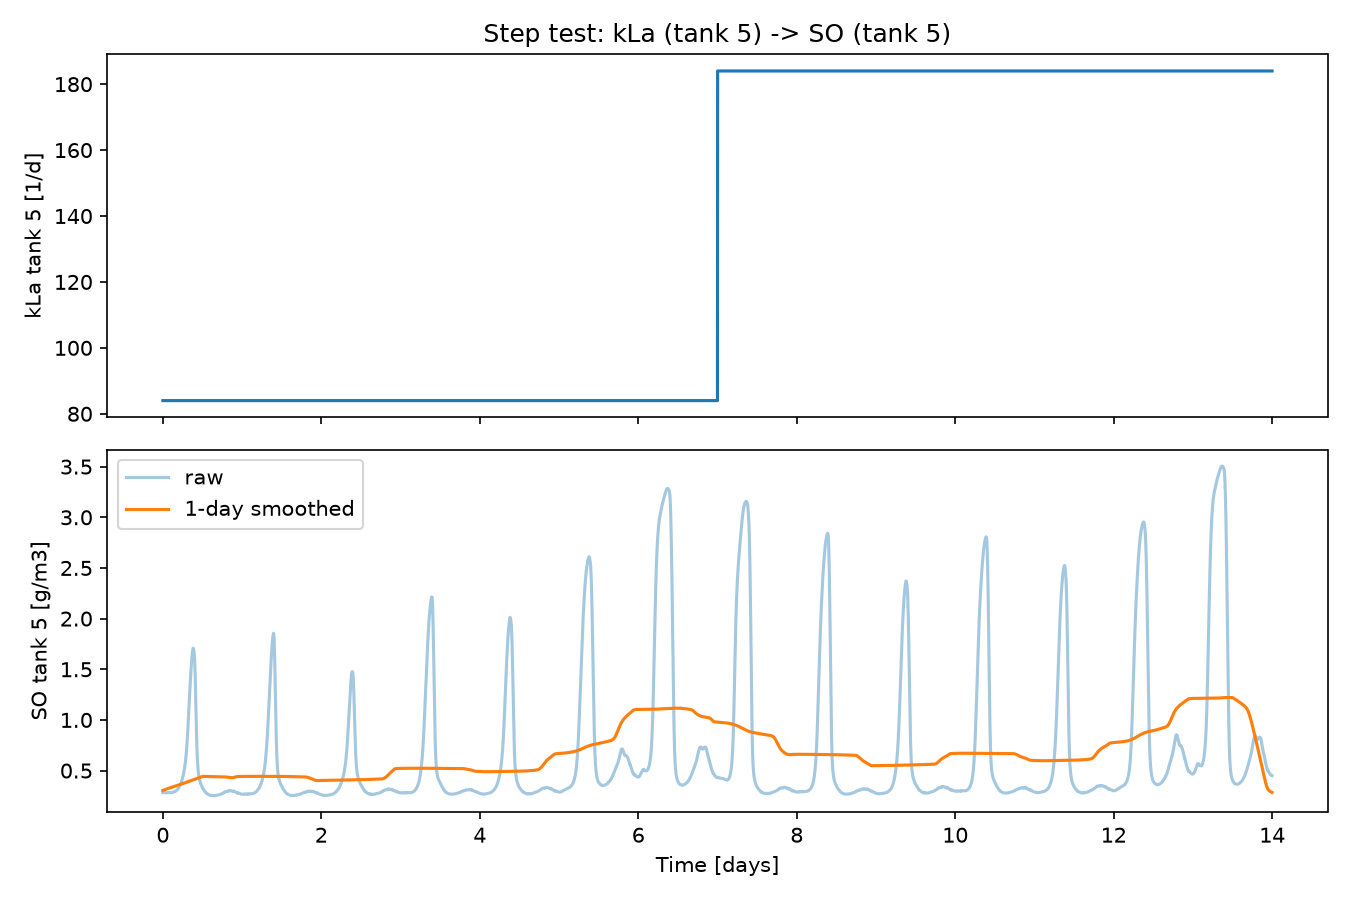
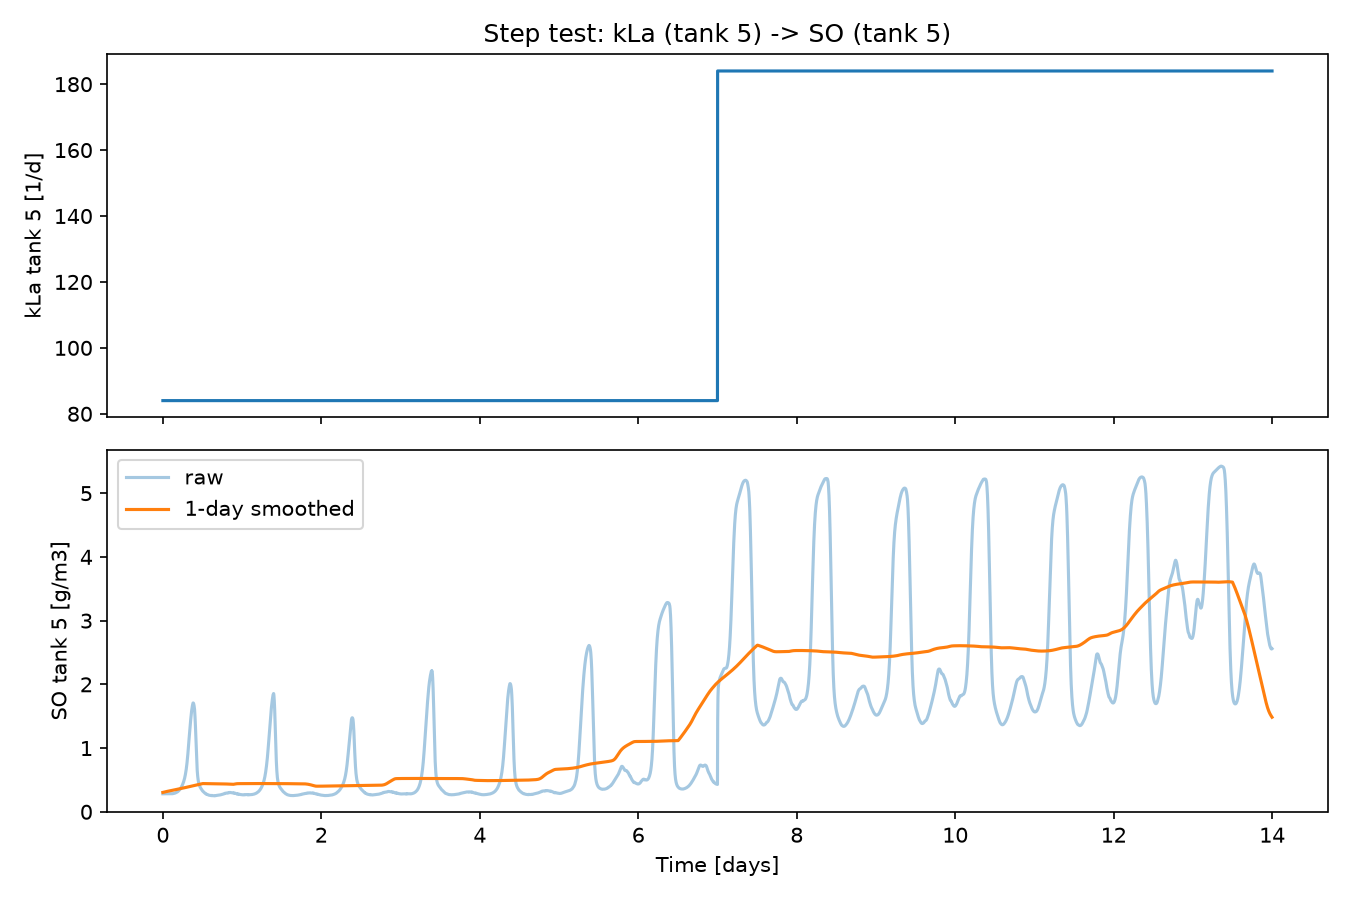
Fix Step 2 kLa step test bug; corrected FOPDT parameters

diff --git a/step2_steptests.py b/step2_steptests.py
@@ -106,10 +106,11 @@ def run_kla_step_test():
     kla_signal = np.zeros(n_steps)
 
     for i, t in enumerate(sim_t):
-        if t >= STEP_TIME:
-            bsm1.klas[4] = kla_after
-        kla_signal[i] = bsm1.klas[4]
-        bsm1.step(i)
+        current_kla = kla_after if t >= STEP_TIME else kla_before
+        klas_arr = bsm1.klas.copy()
+        klas_arr[4] = current_kla
+        kla_signal[i] = current_kla
+        bsm1.step(i, klas_arr)
         so_response[i] = bsm1.y_out5_all[i, SO_IDX] if i < len(bsm1.y_out5_all) else bsm1.y_out5[SO_IDX]
 
     # plot
